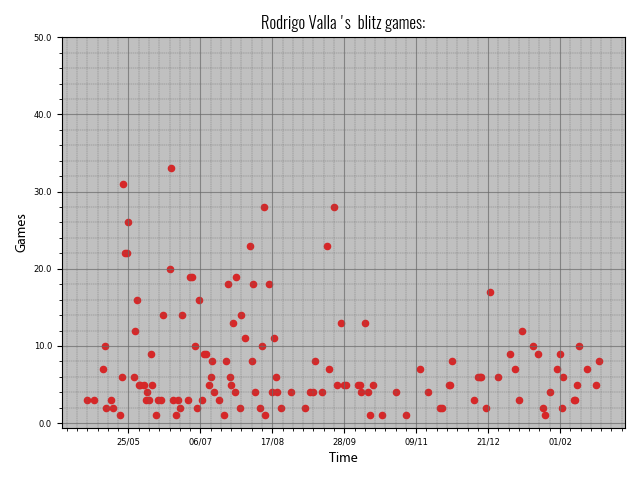
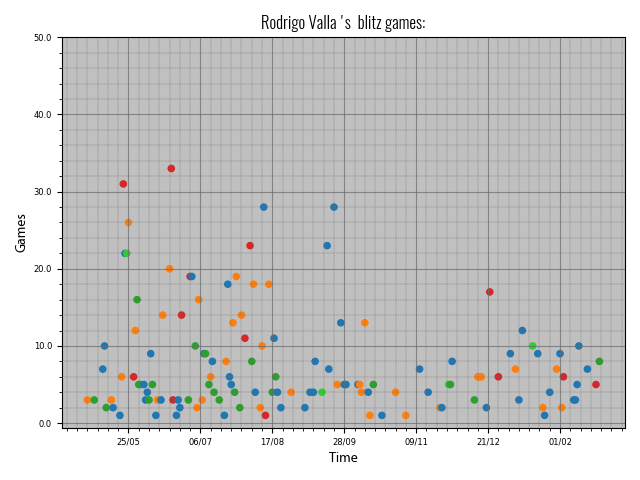
Improving charts...

diff --git a/player_games_charts.py b/player_games_charts.py
@@ -1,7 +1,8 @@
-import datetime as dt
+#import datetime as dt
 import json as js
 import pandas as pd
-from matplotlib.pyplot import figure
+import datetime as dt
+import matplotlib.colors as pltcolors
 import matplotlib.pyplot as plt
 import chart_config as cc
 
@@ -20,6 +21,8 @@ ratings_evolution = pd.read_csv("data/" + player["username"] + "_ratings_evoluti
 ratings_evolution.index_name = "date"
 games_count = pd.read_csv("data/" + player["username"] + "_games.csv", header=0, index_col=0)
 games_count.index_name = "date"
+
+color_map = pltcolors.ListedColormap(["tab:red", "tab:orange", "tab:blue", "tab:green", "limegreen"])
 
 def get_data_lists(data):
 	list = []
@@ -45,7 +48,7 @@ def ratings_by_game_texts(key):
 
 def ratings_by_game(data, key, texts, y_axis):
 	print("Plotting ratings by game...", end="\r")
-	f = figure(num=None, figsize=(cc.w, cc.h), dpi=cc.image_resolution, facecolor=cc.background_figure, edgecolor='k')
+	f = plt.figure(num=None, figsize=(cc.w, cc.h), dpi=cc.image_resolution, facecolor=cc.background_figure, edgecolor='k')
 	list, avg_list = get_data_lists(data["rating"])
 	plt.plot(range(data.shape[0]), list, color=cc.colors[6], linewidth=1.0, label=texts[4])
 	plt.plot(range(data.shape[0]), avg_list, linewidth=2.5, color=cc.colors[0], label=texts[3])
@@ -66,7 +69,7 @@ def result_history_texts(key):
 
 def result_history(data, key, texts, y_axis):
 	print("Plotting result history by game...", end="\r")
-	f = figure(num=None, figsize=(cc.w, cc.h), dpi=cc.image_resolution, facecolor=cc.background_figure, edgecolor='k')
+	f = plt.figure(num=None, figsize=(cc.w, cc.h), dpi=cc.image_resolution, facecolor=cc.background_figure, edgecolor='k')
 	list, avg_list = get_data_lists(data["points"].cumsum())
 	plt.plot(range(data.shape[0]), list, color=cc.colors[6], linewidth=1.0, label=texts[4])
 	plt.plot(range(data.shape[0]), avg_list, linewidth=2.5, color=cc.colors[0], label=texts[3])
@@ -85,7 +88,7 @@ def histogram_texts(key):
 
 def ranking_histogram(data, key, bins, texts):
 	print("Plotting ratings histogram...", end="\r")
-	f = figure(num=None, figsize=(cc.w, cc.h), dpi=cc.image_resolution, facecolor=cc.background_figure, edgecolor='k')
+	f = plt.figure(num=None, figsize=(cc.w, cc.h), dpi=cc.image_resolution, facecolor=cc.background_figure, edgecolor='k')
 	data["rating"].plot(kind="hist", bins=bins, color=cc.colors[6])
 	cc.format_and_background()
 	cc.build_texts(texts[0], texts[1], texts[2])
@@ -93,11 +96,20 @@ def ranking_histogram(data, key, bins, texts):
 	print("Charts were saved!                    ", end="\n")
 	log.write("-- " + player["name"] + " games histogram (" + key + ") was saved.\n")
 
+def get_scatter_rating_difference(key, dates):
+	list = [0]
+	for d in range(1,len(dates)):
+		last_rating = ratings_evolution.loc[dates[d-1]][key + "_mean"]
+		list.append(ratings_evolution.loc[dates[d]][key + "_mean"] - last_rating)
+	return list
+
 def game_count_scatter(texts, key, y_axis, week_interval):
 	print("Plotting games count...", end="\r")
-	f = figure(num=None, figsize=(cc.w, cc.h), dpi=cc.image_resolution, facecolor=cc.background_figure, edgecolor='k')
+	f = plt.figure(num=None, figsize=(cc.w, cc.h), dpi=cc.image_resolution, facecolor=cc.background_figure, edgecolor='k')
 	games_count["x"] = pd.to_datetime(games_count.index, format="%Y-%m-%d")
-	games_count[games_count[key] != 0].plot(kind="scatter", x="x", y=key, color=cc.colors[0])
+	the_games = games_count[games_count[key] != 0]
+	rating_diff = get_scatter_rating_difference(key, the_games.index.to_list())
+	the_games.plot(kind="scatter", x="x", y=key, c=rating_diff, colormap=color_map)
 	cc.format_and_background()
 	cc.build_texts(texts[0], texts[1], texts[2])
 	cc.grid_and_ticks(y_axis[0],y_axis[1],y_axis[2],y_axis[3])

diff --git a/player_games_data.py b/player_games_data.py
@@ -40,7 +40,8 @@ print("The games are ready!            ", end="\n")
 #preparing dataframes...
 ratings_columns = ["date", "variant", "time","pre_rating","rating","difference","result","points","color","opponent", "op_difference"]
 ratings_evolution_columns = ["bullet_min", "bullet_max", "bullet_mean",
-							"blitz_min", "blitz_max", "blitz_mean", "rapid_min", "rapid_max", "rapid_mean"]
+							"blitz_min", "blitz_max", "blitz_mean",
+							"rapid_min", "rapid_max", "rapid_mean"]
 games_count_columns = ["bullet", "blitz", "rapid", "classical"]
 if player["previous_data"]:
 	past_ratings = pd.read_csv("data/" + player["username"] + "_ratings_history.csv")

diff --git a/log.md b/log.md
@@ -27,3 +27,7 @@
 -- Rodrigo Valla played games scatter (blitz) was saved.
 -- Rodrigo Valla played games scatter (rapid) was saved.
 
+### 2022-03-28:
+-- Rodrigo Valla played games scatter (bullet) was saved.
+-- Rodrigo Valla played games scatter (blitz) was saved.
+-- Rodrigo Valla played games scatter (rapid) was saved.
